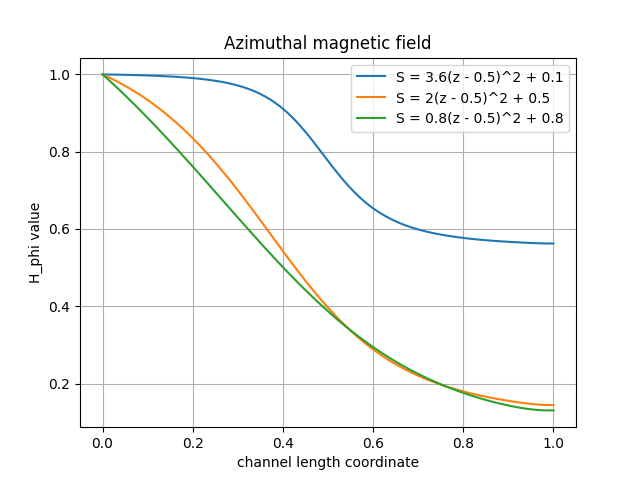
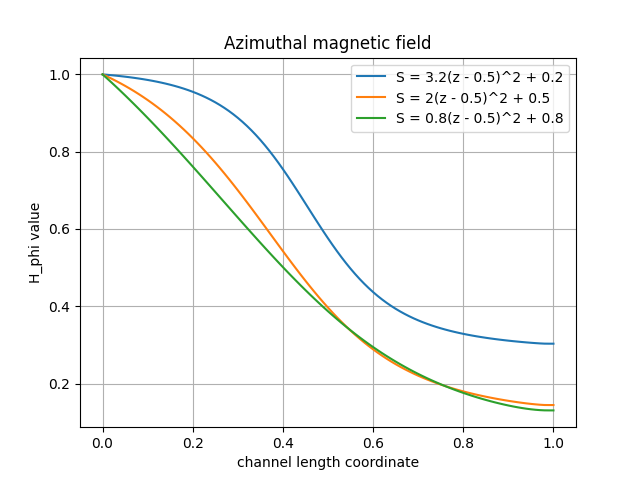
update geometry

diff --git a/10-MGD_analysis/main.py b/10-MGD_analysis/main.py
@@ -373,16 +373,16 @@ N = N_max_main
 # search critical flux for difference parameters for variation of beta
 
 beta_main = 1.0
-H_z_S_main = 1.13
-a_main = 0.8
-b_main = 0.8
+H_z_S_main = 0.15
+a_main = 3.2
+b_main = 0.2
 
 # beta = 0.1 HzScr = 0.45
 # beta = 0.5 HzScr = 0.47
 # beta = 1.0 HzScr = 0.49
 # beta = 10.0 HzScr = 0.92
 
-# a = 3.6, b = 0.1 HzScr = 0.055
+# a = 3.2, b = 0.2 HzScr = 0.15
 # a = 2, b = 0.5 HzScr = 0.49
 # a = 0.8, b = 0.8 HzScr = 1.13
 
@@ -651,10 +651,10 @@ plt.ylabel('rho value')
 plt.grid()
 
 algorithm(I_max_main, N_max_main, k_main, gamma_main, beta_main, mu_0_main, rho_0_main, v_z_0_main, v_phi_0_main,
-          0.055, 3.6, 0.1)
+          0.15, 3.2, 0.2)
 for i_m in range(I_max_main + 1):
     y_lst[i_m] = u_cor_1[N, i_m] / S_mesh[i_m]
-plt.plot(x_lst, y_lst, label='S = 3.6(z - 0.5)^2 + 0.1')
+plt.plot(x_lst, y_lst, label='S = 3.2(z - 0.5)^2 + 0.2')
 
 algorithm(I_max_main, N_max_main, k_main, gamma_main, beta_main, mu_0_main, rho_0_main, v_z_0_main, v_phi_0_main,
           0.49, 2.0, 0.5)
@@ -679,10 +679,10 @@ plt.ylabel('v_z value')
 plt.grid()
 
 algorithm(I_max_main, N_max_main, k_main, gamma_main, beta_main, mu_0_main, rho_0_main, v_z_0_main, v_phi_0_main,
-          0.055, 3.6, 0.1)
+          0.15, 3.2, 0.2)
 for i_m in range(I_max_main + 1):
     y_lst[i_m] = u_cor_2[N, i_m] / u_cor_1[N, i_m]
-plt.plot(x_lst, y_lst, label='S = 3.6(z - 0.5)^2 + 0.1')
+plt.plot(x_lst, y_lst, label='S = 3.2(z - 0.5)^2 + 0.2')
 
 algorithm(I_max_main, N_max_main, k_main, gamma_main, beta_main, mu_0_main, rho_0_main, v_z_0_main, v_phi_0_main,
           0.49, 2.0, 0.5)
@@ -707,10 +707,10 @@ plt.ylabel('v_phi value')
 plt.grid()
 
 algorithm(I_max_main, N_max_main, k_main, gamma_main, beta_main, mu_0_main, rho_0_main, v_z_0_main, v_phi_0_main,
-          0.055, 3.6, 0.1)
+          0.15, 3.2, 0.2)
 for i_m in range(I_max_main + 1):
     y_lst[i_m] = u_cor_3[N, i_m] / u_cor_1[N, i_m]
-plt.plot(x_lst, y_lst, label='S = 3.6(z - 0.5)^2 + 0.1')
+plt.plot(x_lst, y_lst, label='S = 3.2(z - 0.5)^2 + 0.2')
 
 algorithm(I_max_main, N_max_main, k_main, gamma_main, beta_main, mu_0_main, rho_0_main, v_z_0_main, v_phi_0_main,
           0.49, 2.0, 0.5)
@@ -735,10 +735,10 @@ plt.ylabel('energy value')
 plt.grid()
 
 algorithm(I_max_main, N_max_main, k_main, gamma_main, beta_main, mu_0_main, rho_0_main, v_z_0_main, v_phi_0_main,
-          0.055, 3.6, 0.1)
+          0.15, 3.2, 0.2)
 for i_m in range(I_max_main + 1):
     y_lst[i_m] = u_cor_4[N, i_m] / u_cor_1[N, i_m]
-plt.plot(x_lst, y_lst, label='S = 3.6(z - 0.5)^2 + 0.1')
+plt.plot(x_lst, y_lst, label='S = 3.2(z - 0.5)^2 + 0.2')
 
 algorithm(I_max_main, N_max_main, k_main, gamma_main, beta_main, mu_0_main, rho_0_main, v_z_0_main, v_phi_0_main,
           0.49, 2.0, 0.5)
@@ -763,10 +763,10 @@ plt.ylabel('H_phi value')
 plt.grid()
 
 algorithm(I_max_main, N_max_main, k_main, gamma_main, beta_main, mu_0_main, rho_0_main, v_z_0_main, v_phi_0_main,
-          0.055, 3.6, 0.1)
+          0.15, 3.2, 0.2)
 for i_m in range(I_max_main + 1):
     y_lst[i_m] = u_cor_5[N, i_m] / u_cor_1[N, i_m]
-plt.plot(x_lst, y_lst, label='S = 3.6(z - 0.5)^2 + 0.1')
+plt.plot(x_lst, y_lst, label='S = 3.2(z - 0.5)^2 + 0.2')
 
 algorithm(I_max_main, N_max_main, k_main, gamma_main, beta_main, mu_0_main, rho_0_main, v_z_0_main, v_phi_0_main,
           0.49, 2.0, 0.5)
@@ -791,10 +791,10 @@ plt.ylabel('H_z value')
 plt.grid()
 
 for i_m in range(I_max_main + 1):
-    S_mesh[i_m] = 3.6 * (i_m * 1 / I_max_main - 0.5) ** 2 + 0.1
+    S_mesh[i_m] = 3.2 * (i_m * 1 / I_max_main - 0.5) ** 2 + 0.2
 for i_m in range(I_max_main + 1):
-    y_lst[i_m] = 0.055 / S_mesh[i_m]
-plt.plot(x_lst, y_lst, label='S = 3.6(z - 0.5)^2 + 0.1')
+    y_lst[i_m] = 0.15 / S_mesh[i_m]
+plt.plot(x_lst, y_lst, label='S = 3.2(z - 0.5)^2 + 0.2')
 
 for i_m in range(I_max_main + 1):
     S_mesh[i_m] = 2.0 * (i_m * 1 / I_max_main - 0.5) ** 2 + 0.5
